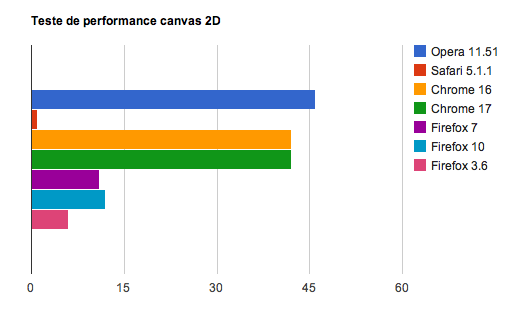
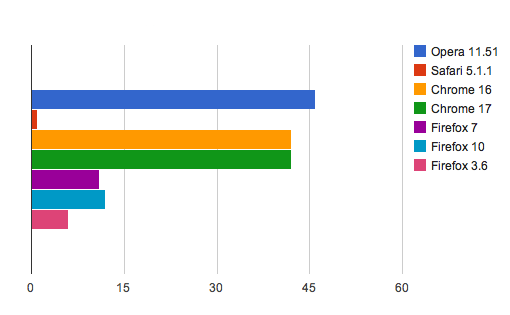
Adicionando alguns slides a mais e removendo o título da figura

Changed region(s): [[0.0588, 0.0286, 0.4412, 0.0857]]

diff --git a/index.html b/index.html
@@ -86,17 +86,28 @@
       </article>
 
       <article>
-        <h3>Performance 2D</h3>
-		<img src=""></img>
+        <h3>Performance 2D no início de 2010</h3>
+		<img src="images/chart-performance-timo.png"></img>
+		<div class="source">Fonte: Timo Ernst</div>
+      </article>
+
+      <article>
+        <h3>Performance 2D no fim de 2011</h3>
+		<img src="images/chart-performance-pothix.png" class="centered"></img>
       </article>
 
       <article>
         <h3>Considerações finais</h3>
-        <ul>
-			<li>1</li>
-			<li>2</li>
-			<li>3</li>
+        <ul class="build">
+			<li>Pesquisa sobre performance em dispositivos móveis.</li>
+			<li>Obtenção de lucro com jogos feitos com HTML5 e Javascript.</li>
         </ul>
+      </article>
+
+      <article>
+        <h1>Perguntas?</h1>
+        <p>Willian Molinari</p>
+        <p>47458</p>
       </article>
     </section>
   </body>
